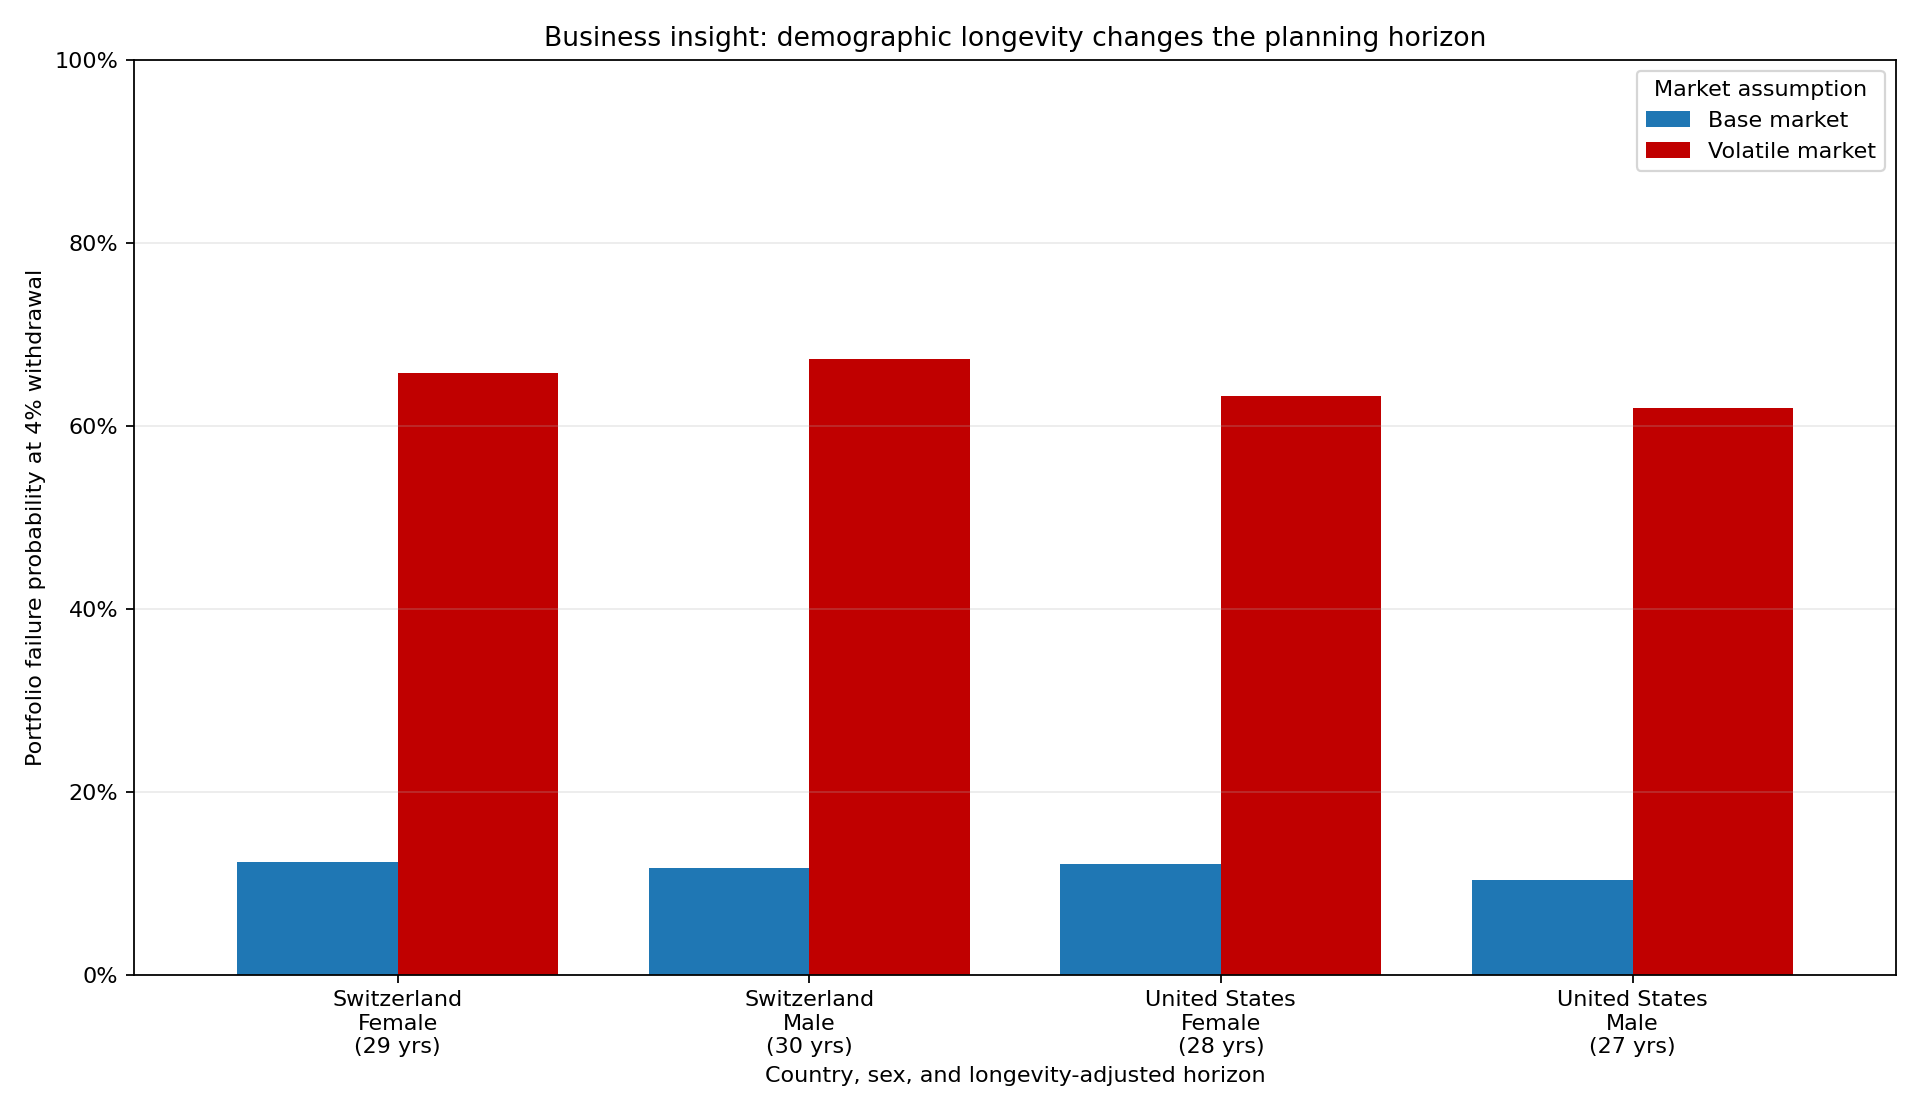
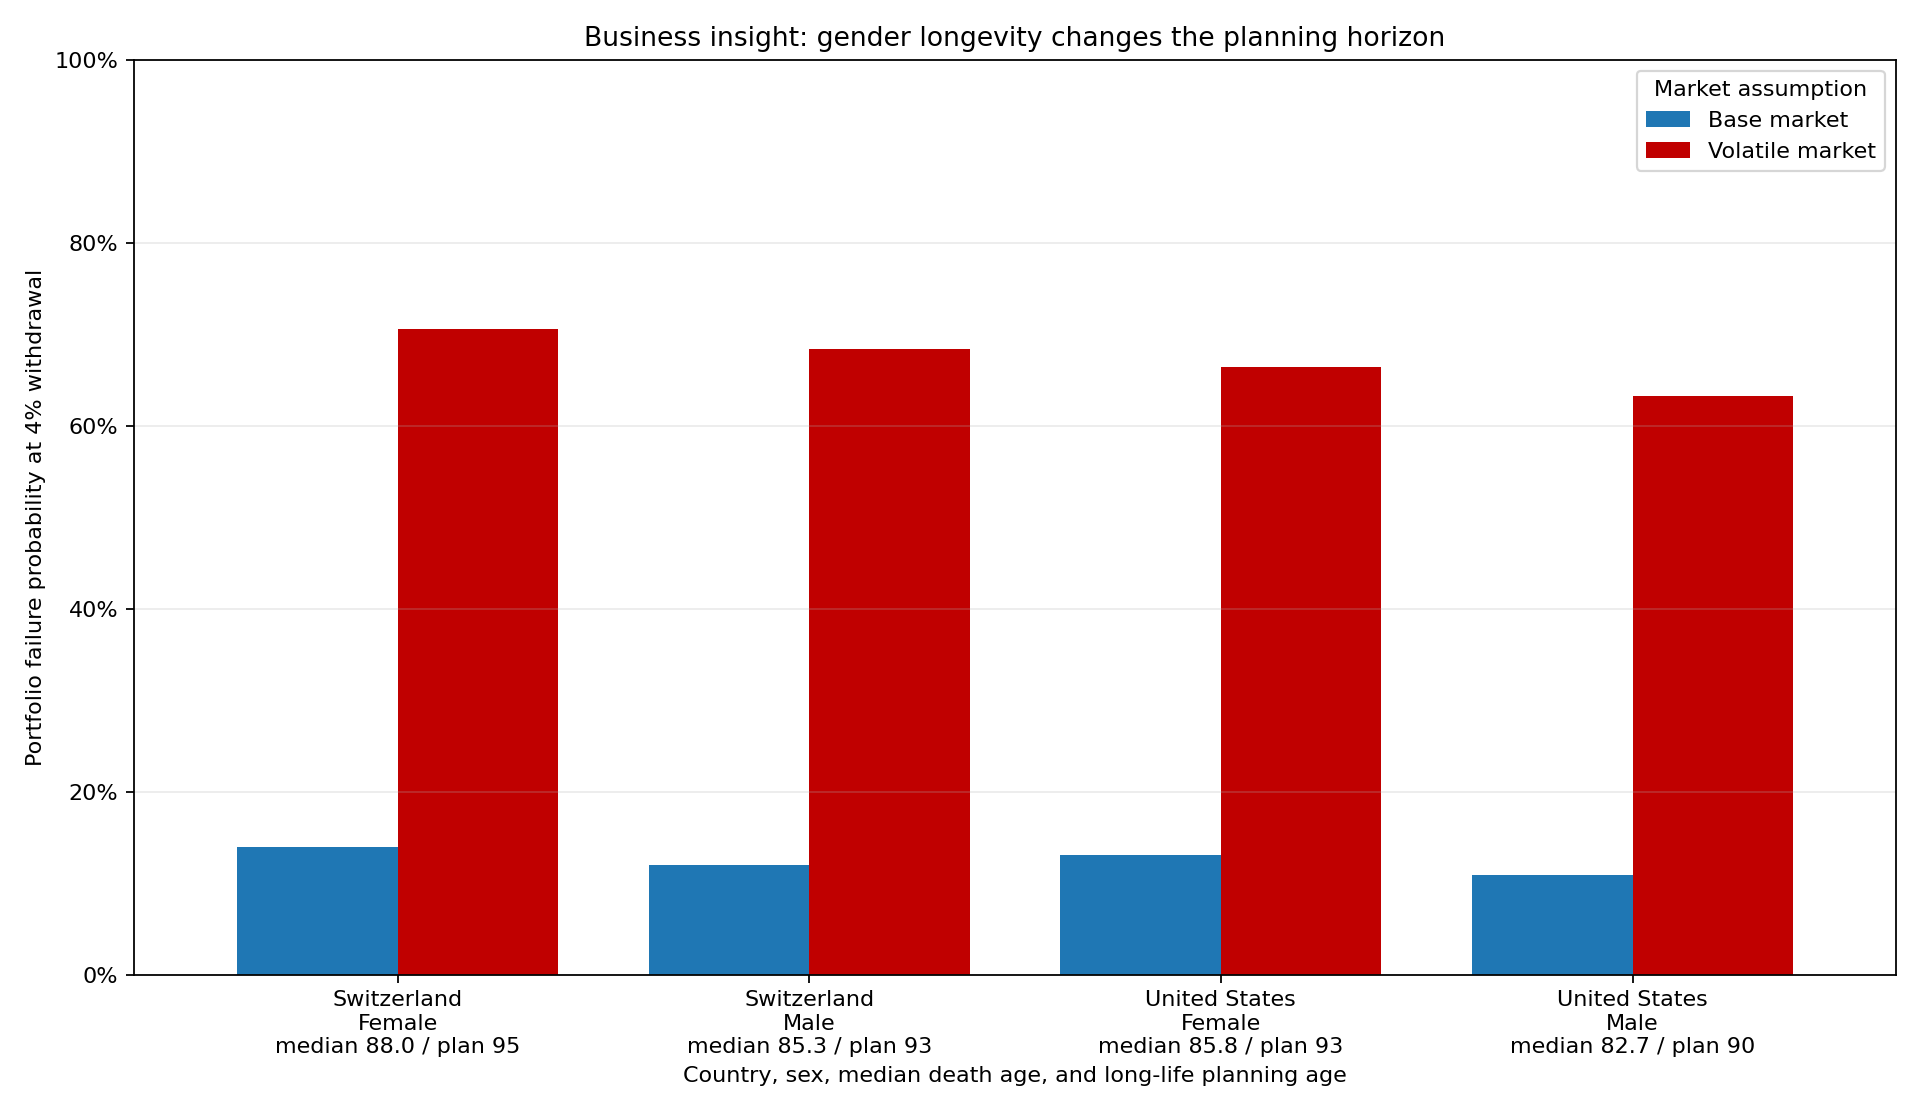
Highlight gender longevity strategy risk

diff --git a/scripts/generate_business_value_insights.py b/scripts/generate_business_value_insights.py
@@ -10,8 +10,6 @@ matplotlib.use("Agg")
 import matplotlib.pyplot as plt
 import numpy as np
 import pandas as pd
-from scipy import stats
-
 sys.path.insert(0, str(Path(__file__).resolve().parents[1]))
 
 import stock_movements as sm
@@ -25,7 +23,7 @@ DAYS_PER_YEAR = 252
 SIMULATIONS = 3_000
 START_BALANCE = 100_000
 RETIREMENT_AGE = 62
-LONGEVITY_PERCENTILE = 0.90
+LONGEVITY_PLANNING_PERCENTILE = 0.90
 
 MARKET_REGIMES = {
     "Base market": {
@@ -44,30 +42,34 @@ DEMOGRAPHIC_SEGMENTS = [
     {
         "country": "United States",
         "sex": "Male",
-        "expected_death_age": 81.7,
-        "life_std": 5.6,
+        "median_death_age": 82.7,
+        "long_life_planning_age": 90,
         "business_context": "US male longevity-adjusted plan",
+        "source_note": "SSA age-62 remaining life expectancy, rounded; long-life age approximates a prudent 90th-percentile planning horizon",
     },
     {
         "country": "United States",
         "sex": "Female",
-        "expected_death_age": 84.6,
-        "life_std": 3.6,
+        "median_death_age": 85.8,
+        "long_life_planning_age": 93,
         "business_context": "US female longevity-adjusted plan",
+        "source_note": "SSA age-62 remaining life expectancy, rounded; long-life age approximates a prudent 90th-percentile planning horizon",
     },
     {
         "country": "Switzerland",
         "sex": "Male",
-        "expected_death_age": 84.5,
-        "life_std": 5.6,
+        "median_death_age": 85.3,
+        "long_life_planning_age": 93,
         "business_context": "Swiss male longevity-adjusted plan",
+        "source_note": "Swiss/OECD age-65 life expectancy context, rounded to retirement-age planning assumptions",
     },
     {
         "country": "Switzerland",
         "sex": "Female",
-        "expected_death_age": 86.3,
-        "life_std": 3.6,
+        "median_death_age": 88.0,
+        "long_life_planning_age": 95,
         "business_context": "Swiss female longevity-adjusted plan",
+        "source_note": "Swiss/OECD age-65 life expectancy context, rounded to retirement-age planning assumptions",
     },
 ]
 
@@ -141,13 +143,8 @@ def pct(value):
 
 
 def planning_horizon(segment):
-    """Convert a demographic life expectancy estimate into a planning horizon."""
-    high_percentile_age = stats.norm.ppf(
-        LONGEVITY_PERCENTILE,
-        loc=segment["expected_death_age"],
-        scale=segment["life_std"],
-    )
-    return int(np.ceil(high_percentile_age - RETIREMENT_AGE))
+    """Convert a demographic long-life age into a portfolio planning horizon."""
+    return int(np.ceil(segment["long_life_planning_age"] - RETIREMENT_AGE))
 
 
 def market_paths(market_regime, sim_years, seed):
@@ -246,14 +243,37 @@ def build_demographic_table():
                         "market_regime": market_regime,
                         "withdrawal_rate": withdrawal_rate,
                         "sim_years": sim_years,
-                        "planning_horizon_source": f"{LONGEVITY_PERCENTILE:.0%} longevity age from demographic assumption",
+                        "planning_horizon_source": f"{LONGEVITY_PLANNING_PERCENTILE:.0%} long-life age from demographic assumption",
                         "business_context": segment["business_context"],
-                        "expected_death_age": segment["expected_death_age"],
-                        "life_std": segment["life_std"],
+                        "median_death_age": segment["median_death_age"],
+                        "long_life_planning_age": segment["long_life_planning_age"],
+                        "source_note": segment["source_note"],
                         **metrics,
                     }
                 )
     return pd.DataFrame(rows)
+
+
+def recommended_withdrawal_by_segment(demographic_df, risk_budget=0.12):
+    """Find the highest tested withdrawal rate that stays within a failure-risk budget."""
+    base = demographic_df[demographic_df["market_regime"] == "Base market"].copy()
+    recommendations = []
+    for (country, sex), group in base.groupby(["country", "sex"]):
+        eligible = group[group["failure_probability"] <= risk_budget].sort_values("withdrawal_rate")
+        if eligible.empty:
+            chosen = group.sort_values("failure_probability").iloc[0]
+        else:
+            chosen = eligible.iloc[-1]
+        recommendations.append(
+            {
+                "country": country,
+                "sex": sex,
+                "recommended_withdrawal_rate": chosen["withdrawal_rate"],
+                "failure_probability": chosen["failure_probability"],
+                "sim_years": int(chosen["sim_years"]),
+            }
+        )
+    return pd.DataFrame(recommendations)
 
 
 def save_failure_sensitivity_chart(sweep_df):
@@ -314,14 +334,22 @@ def save_demographic_risk_chart(demographic_df):
         (demographic_df["withdrawal_rate"] == 0.040)
         & demographic_df["market_regime"].isin(["Base market", "Volatile market"])
     ].copy()
-    selected["segment"] = selected["country"] + "\n" + selected["sex"] + "\n(" + selected["sim_years"].astype(str) + " yrs)"
+    selected["segment"] = (
+        selected["country"]
+        + "\n"
+        + selected["sex"]
+        + "\nmedian "
+        + selected["median_death_age"].map(lambda value: f"{value:.1f}")
+        + " / plan "
+        + selected["long_life_planning_age"].astype(int).astype(str)
+    )
     pivot = selected.pivot(index="segment", columns="market_regime", values="failure_probability")
     pivot = pivot[["Base market", "Volatile market"]]
 
     fig, ax = plt.subplots(figsize=(12, 7))
     pivot.plot(kind="bar", ax=ax, color=["#1f77b4", "#c00000"], width=0.78)
-    ax.set_title("Business insight: demographic longevity changes the planning horizon")
-    ax.set_xlabel("Country, sex, and longevity-adjusted horizon")
+    ax.set_title("Business insight: gender longevity changes the planning horizon")
+    ax.set_xlabel("Country, sex, median death age, and long-life planning age")
     ax.set_ylabel("Portfolio failure probability at 4% withdrawal")
     ax.yaxis.set_major_formatter(lambda value, _: f"{value:.0%}")
     ax.set_ylim(0, 1)
@@ -348,6 +376,14 @@ def write_slide_deck(benchmark_df, sweep_df, demographic_df):
     ].copy()
     lowest_risk = demographic_4.loc[demographic_4["failure_probability"].idxmin()]
     highest_risk = demographic_4.loc[demographic_4["failure_probability"].idxmax()]
+    recommendations = recommended_withdrawal_by_segment(demographic_df)
+    rec_lookup = {
+        (row["country"], row["sex"]): row
+        for _, row in recommendations.iterrows()
+    }
+    us_male_rec = rec_lookup[("United States", "Male")]
+    us_female_rec = rec_lookup[("United States", "Female")]
+    swiss_female_rec = rec_lookup[("Switzerland", "Female")]
 
     deck = f"""---
 marp: true
@@ -358,11 +394,11 @@ paginate: true
 # Retirement Portfolio Simulator
 ## Turning financial uncertainty into explainable planning conversations
 
-**Business problem:** retirees and advisors need a clear way to compare spending goals, market risk, and longevity assumptions before committing to a plan.
+**Business problem:** retirees and advisors need a clear way to compare spending goals, market risk, and longevity assumptions before committing to a plan--especially because women often need assets to last longer and face elevated senior-poverty risk.
 
 **Solution:** a Python + Dash simulator that converts customer assumptions into repeatable scenarios, visual risk metrics, and stakeholder-ready recommendations.
 
-**Why it matters commercially:** the same model can support discovery, suitability conversations, stress testing, and executive-level value storytelling without relying on a black-box answer.
+**Why it matters commercially:** the same model can support discovery, suitability conversations, stress testing, and executive-level value storytelling without relying on a black-box answer. It also shows why one-size-fits-all retirement guidance can under-serve women.
 
 ---
 
@@ -378,15 +414,16 @@ paginate: true
 
 ---
 
-# Insight 2: demographics change the recommendation conversation
+# Insight 2: gender and country change the recommendation conversation
 
 ![Demographic risk](assets/business_value_demographic_risk.png)
 
-**What the visualization shows:** each group represents a country/sex segment. The horizon in parentheses is based on a 90th-percentile longevity planning age, so longer-lived segments are tested over more years. The two bars compare the same 4% withdrawal under base and volatile market assumptions.
+**What the visualization shows:** each group represents a country/sex segment. The label shows both the median/expected death age and the long-life planning age used for the simulation. Women are tested over longer horizons because outliving a median plan is a key driver of senior poverty. The two bars compare the same 4% withdrawal under base and volatile market assumptions.
 
 - At 4% in the base market, the lowest-risk segment was **{lowest_risk['country']} {lowest_risk['sex']}** at **{pct(lowest_risk['failure_probability'])}** simulated failure risk over **{int(lowest_risk['sim_years'])} years**.
 - The highest-risk base-market segment was **{highest_risk['country']} {highest_risk['sex']}** at **{pct(highest_risk['failure_probability'])}** over **{int(highest_risk['sim_years'])} years**.
-- Business value: the solution can personalize guidance by market, country, sex, spending level, and planning horizon instead of presenting one generic rule.
+- Strategy implication: with a **12% failure-risk budget**, the tested US male segment supports **{pct(us_male_rec['recommended_withdrawal_rate'])}**, while the US female segment shifts to **{pct(us_female_rec['recommended_withdrawal_rate'])}** and Swiss female segment shifts to **{pct(swiss_female_rec['recommended_withdrawal_rate'])}**.
+- Business value: the solution can personalize guidance by market, country, sex, spending level, and planning horizon instead of presenting one generic rule. This makes the gender gap in longevity visible before it becomes a poverty-risk problem.
 
 ---
 
@@ -424,7 +461,19 @@ def main():
         (demographic_df["withdrawal_rate"] == 0.040)
         & (demographic_df["market_regime"] == "Base market")
     ]
-    print(demographic_summary[["country", "sex", "sim_years", "failure_probability", "median_ending_balance"]].to_string(index=False))
+    print(
+        demographic_summary[
+            [
+                "country",
+                "sex",
+                "median_death_age",
+                "long_life_planning_age",
+                "sim_years",
+                "failure_probability",
+                "median_ending_balance",
+            ]
+        ].to_string(index=False)
+    )
 
 
 if __name__ == "__main__":

diff --git a/docs/business_value_slides.md b/docs/business_value_slides.md
@@ -7,11 +7,11 @@ paginate: true
 # Retirement Portfolio Simulator
 ## Turning financial uncertainty into explainable planning conversations
 
-**Business problem:** retirees and advisors need a clear way to compare spending goals, market risk, and longevity assumptions before committing to a plan.
+**Business problem:** retirees and advisors need a clear way to compare spending goals, market risk, and longevity assumptions before committing to a plan--especially because women often need assets to last longer and face elevated senior-poverty risk.
 
 **Solution:** a Python + Dash simulator that converts customer assumptions into repeatable scenarios, visual risk metrics, and stakeholder-ready recommendations.
 
-**Why it matters commercially:** the same model can support discovery, suitability conversations, stress testing, and executive-level value storytelling without relying on a black-box answer.
+**Why it matters commercially:** the same model can support discovery, suitability conversations, stress testing, and executive-level value storytelling without relying on a black-box answer. It also shows why one-size-fits-all retirement guidance can under-serve women.
 
 ---
 
@@ -27,15 +27,16 @@ paginate: true
 
 ---
 
-# Insight 2: demographics change the recommendation conversation
+# Insight 2: gender and country change the recommendation conversation
 
 ![Demographic risk](assets/business_value_demographic_risk.png)
 
-**What the visualization shows:** each group represents a country/sex segment. The horizon in parentheses is based on a 90th-percentile longevity planning age, so longer-lived segments are tested over more years. The two bars compare the same 4% withdrawal under base and volatile market assumptions.
+**What the visualization shows:** each group represents a country/sex segment. The label shows both the median/expected death age and the long-life planning age used for the simulation. Women are tested over longer horizons because outliving a median plan is a key driver of senior poverty. The two bars compare the same 4% withdrawal under base and volatile market assumptions.
 
-- At 4% in the base market, the lowest-risk segment was **United States Male** at **10.4%** simulated failure risk over **27 years**.
-- The highest-risk base-market segment was **Switzerland Female** at **12.3%** over **29 years**.
-- Business value: the solution can personalize guidance by market, country, sex, spending level, and planning horizon instead of presenting one generic rule.
+- At 4% in the base market, the lowest-risk segment was **United States Male** at **10.9%** simulated failure risk over **28 years**.
+- The highest-risk base-market segment was **Switzerland Female** at **13.9%** over **33 years**.
+- Strategy implication: with a **12% failure-risk budget**, the tested US male segment supports **4.0%**, while the US female segment shifts to **3.5%** and Swiss female segment shifts to **3.5%**.
+- Business value: the solution can personalize guidance by market, country, sex, spending level, and planning horizon instead of presenting one generic rule. This makes the gender gap in longevity visible before it becomes a poverty-risk problem.
 
 ---
 

diff --git a/README.md b/README.md
@@ -143,7 +143,7 @@ python3 scripts/generate_business_value_insights.py
 - [Demographic risk chart](docs/assets/business_value_demographic_risk.png)
 - [Business value matrix](docs/assets/business_value_matrix.png)
 
-The scenario analysis compares withdrawal rates, market regimes, and longevity-adjusted planning horizons for men and women in the United States and Switzerland.
+The scenario analysis compares withdrawal rates, market regimes, and longevity-adjusted planning horizons for men and women in the United States and Switzerland. It explicitly shows why male and female retirement strategies should differ: each segment includes a median/expected death age plus a longer portfolio-planning age, women typically need portfolios to last longer, and under-planning that horizon can increase senior-poverty risk.
 
 ## Future improvements
 